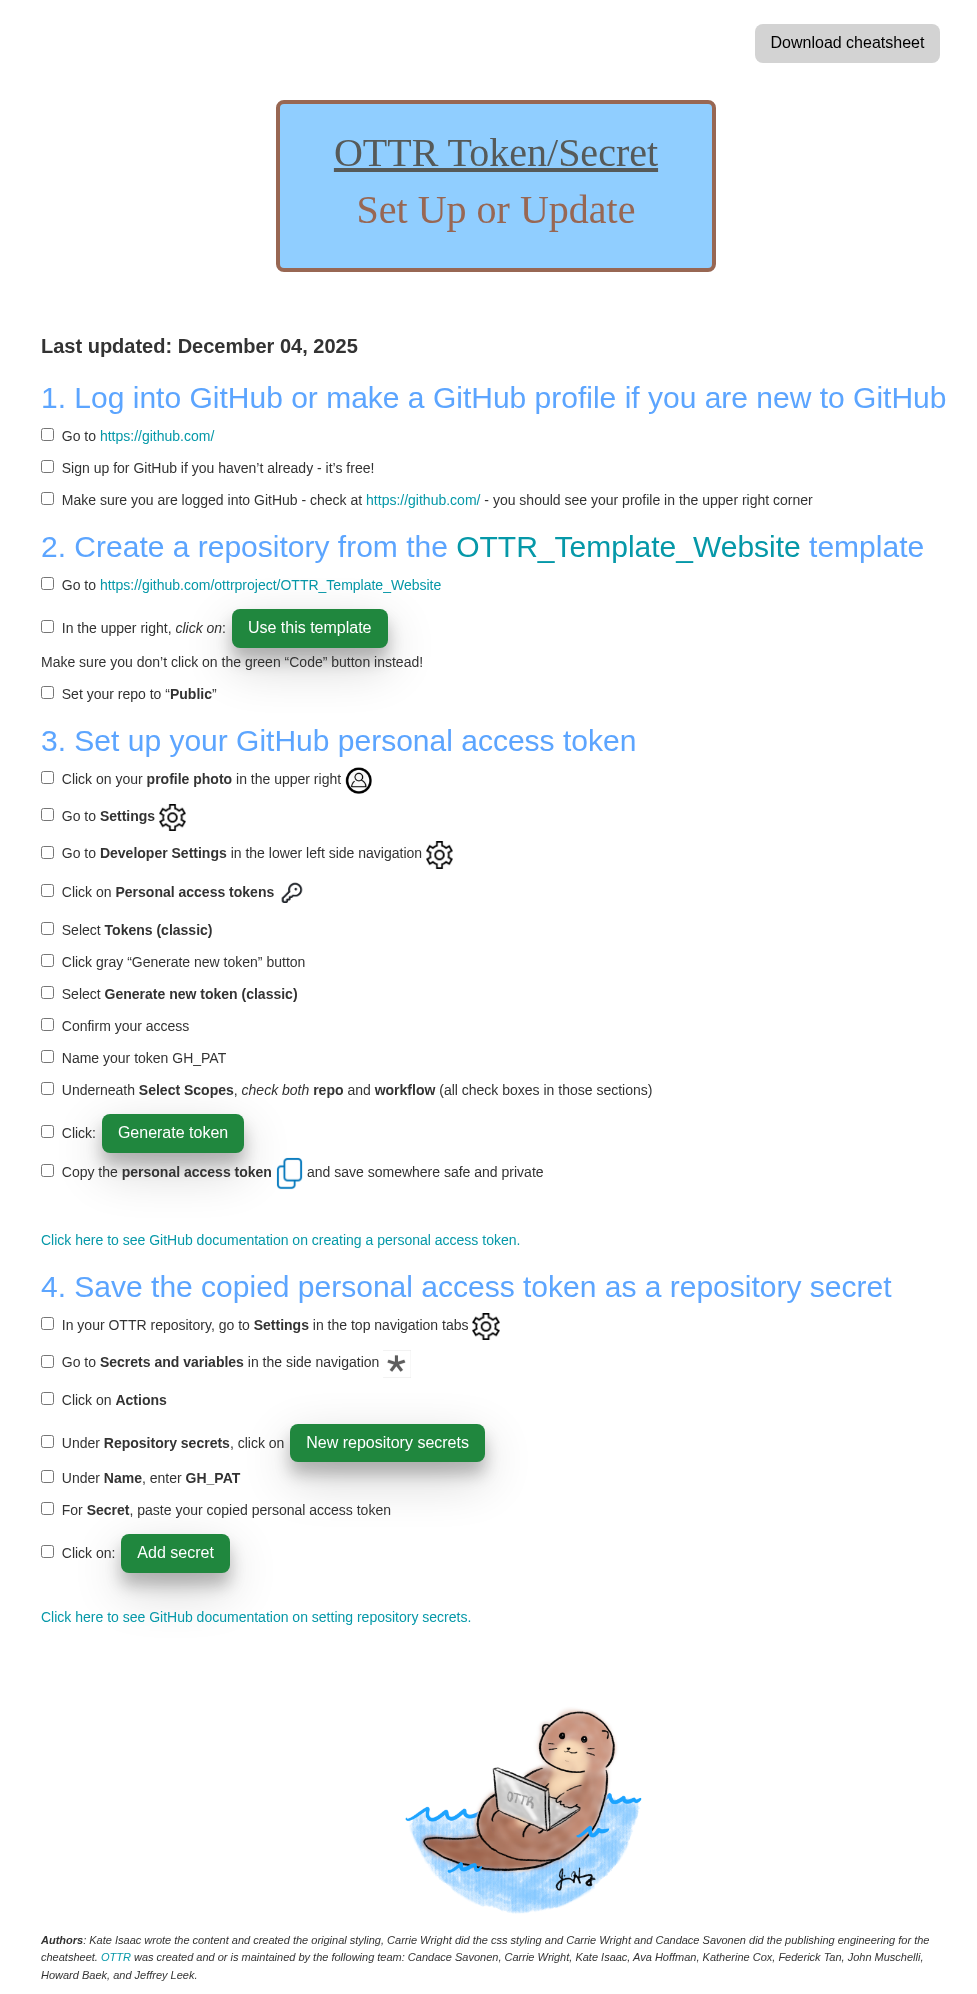
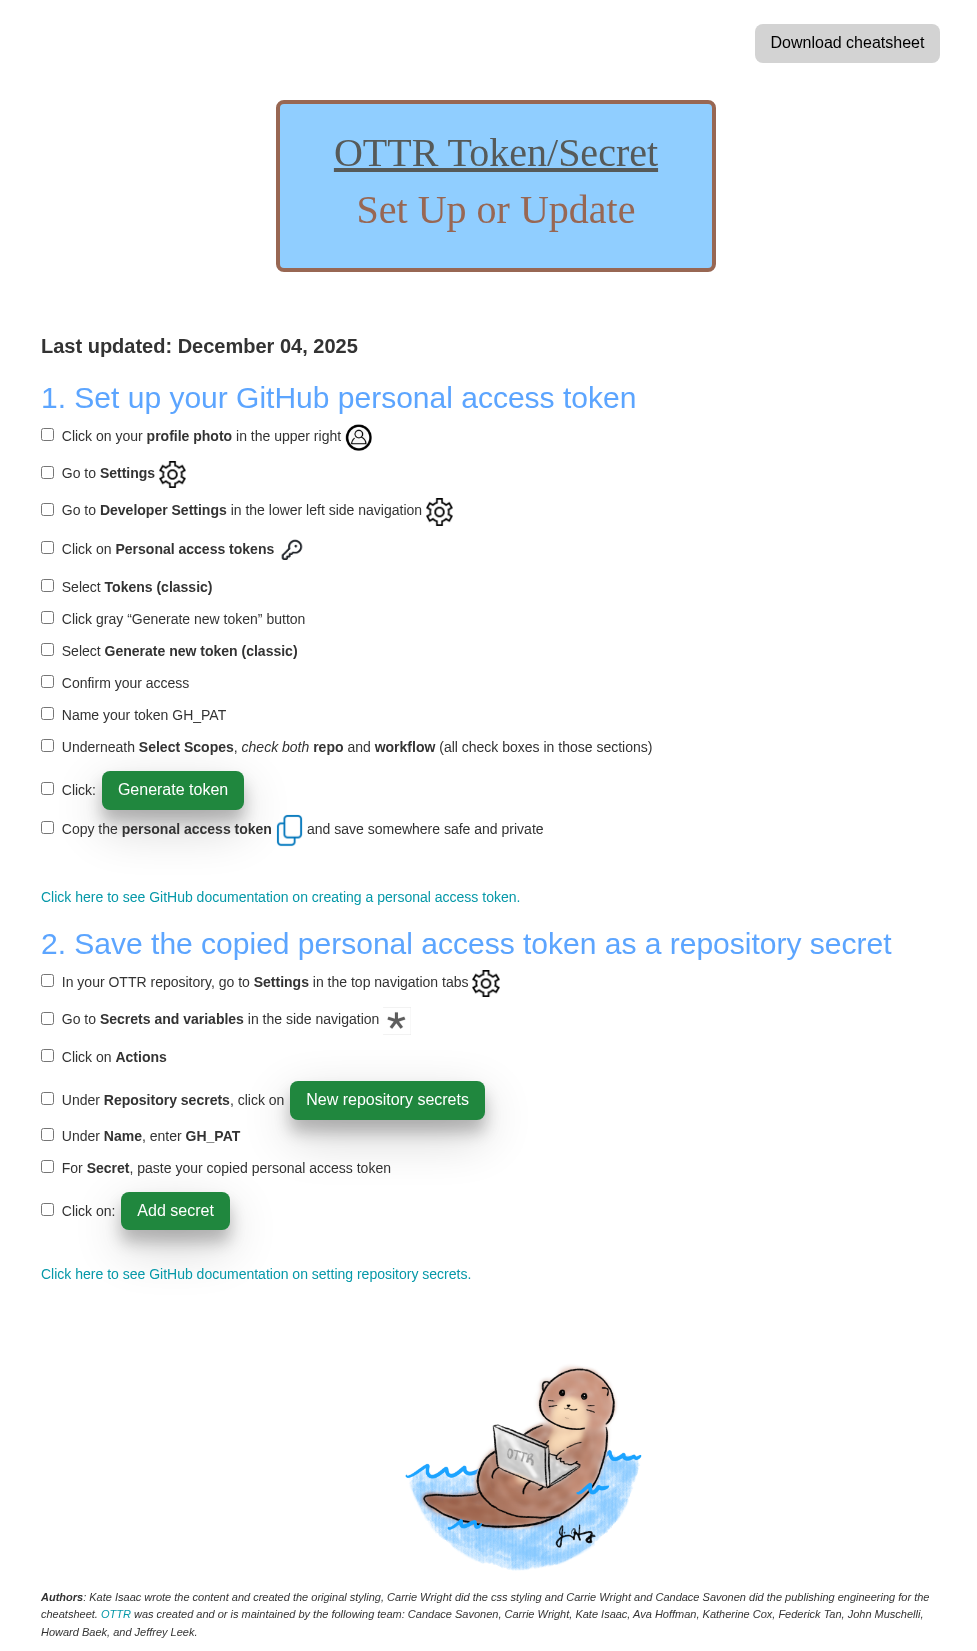
Render site

diff --git a/docs/ottr_token.html b/docs/ottr_token.html
@@ -179,36 +179,6 @@ cheatsheet</a>
 <div class="time">
 <strong>Last updated: December 04, 2025</strong>
 </div>
-<div
-id="log-into-github-or-make-a-github-profile-if-you-are-new-to-github"
-class="section level2">
-<h2>Log into GitHub or make a GitHub profile if you are new to
-GitHub</h2>
-<p><input type="checkbox"> Go to <a href="https://github.com/"
-class="uri">https://github.com/</a></p>
-<p><input type="checkbox"> Sign up for GitHub if you haven’t already -
-it’s free!</p>
-<p><input type="checkbox"> Make sure you are logged into GitHub - check
-at <a href="https://github.com/" class="uri">https://github.com/</a> -
-you should see your profile in the upper right corner</p>
-</div>
-<div id="create-a-repository-from-the-ottr_template_website-template"
-class="section level2">
-<h2>Create a repository from the <a
-href="https://github.com/ottrproject/OTTR_Template_Website">OTTR_Template_Website</a>
-template</h2>
-<p><input type="checkbox"> Go to <a
-href="https://github.com/ottrproject/OTTR_Template_Website"
-class="uri">https://github.com/ottrproject/OTTR_Template_Website</a></p>
-<input type="checkbox"> In the upper right, <em>click on</em>:
-<div class="github_button">
-<a href="https://github.com/new?template_name=OTTR_Template_Website">
-Use this template</a>
-</div>
-<p>Make sure you don’t click on the green “Code” button instead!</p>
-<p><input type="checkbox"> Set your repo to
-“<strong>Public</strong>”</p>
-</div>
 <div id="set-up-your-github-personal-access-token"
 class="section level2">
 <h2>Set up your GitHub personal access token</h2>
